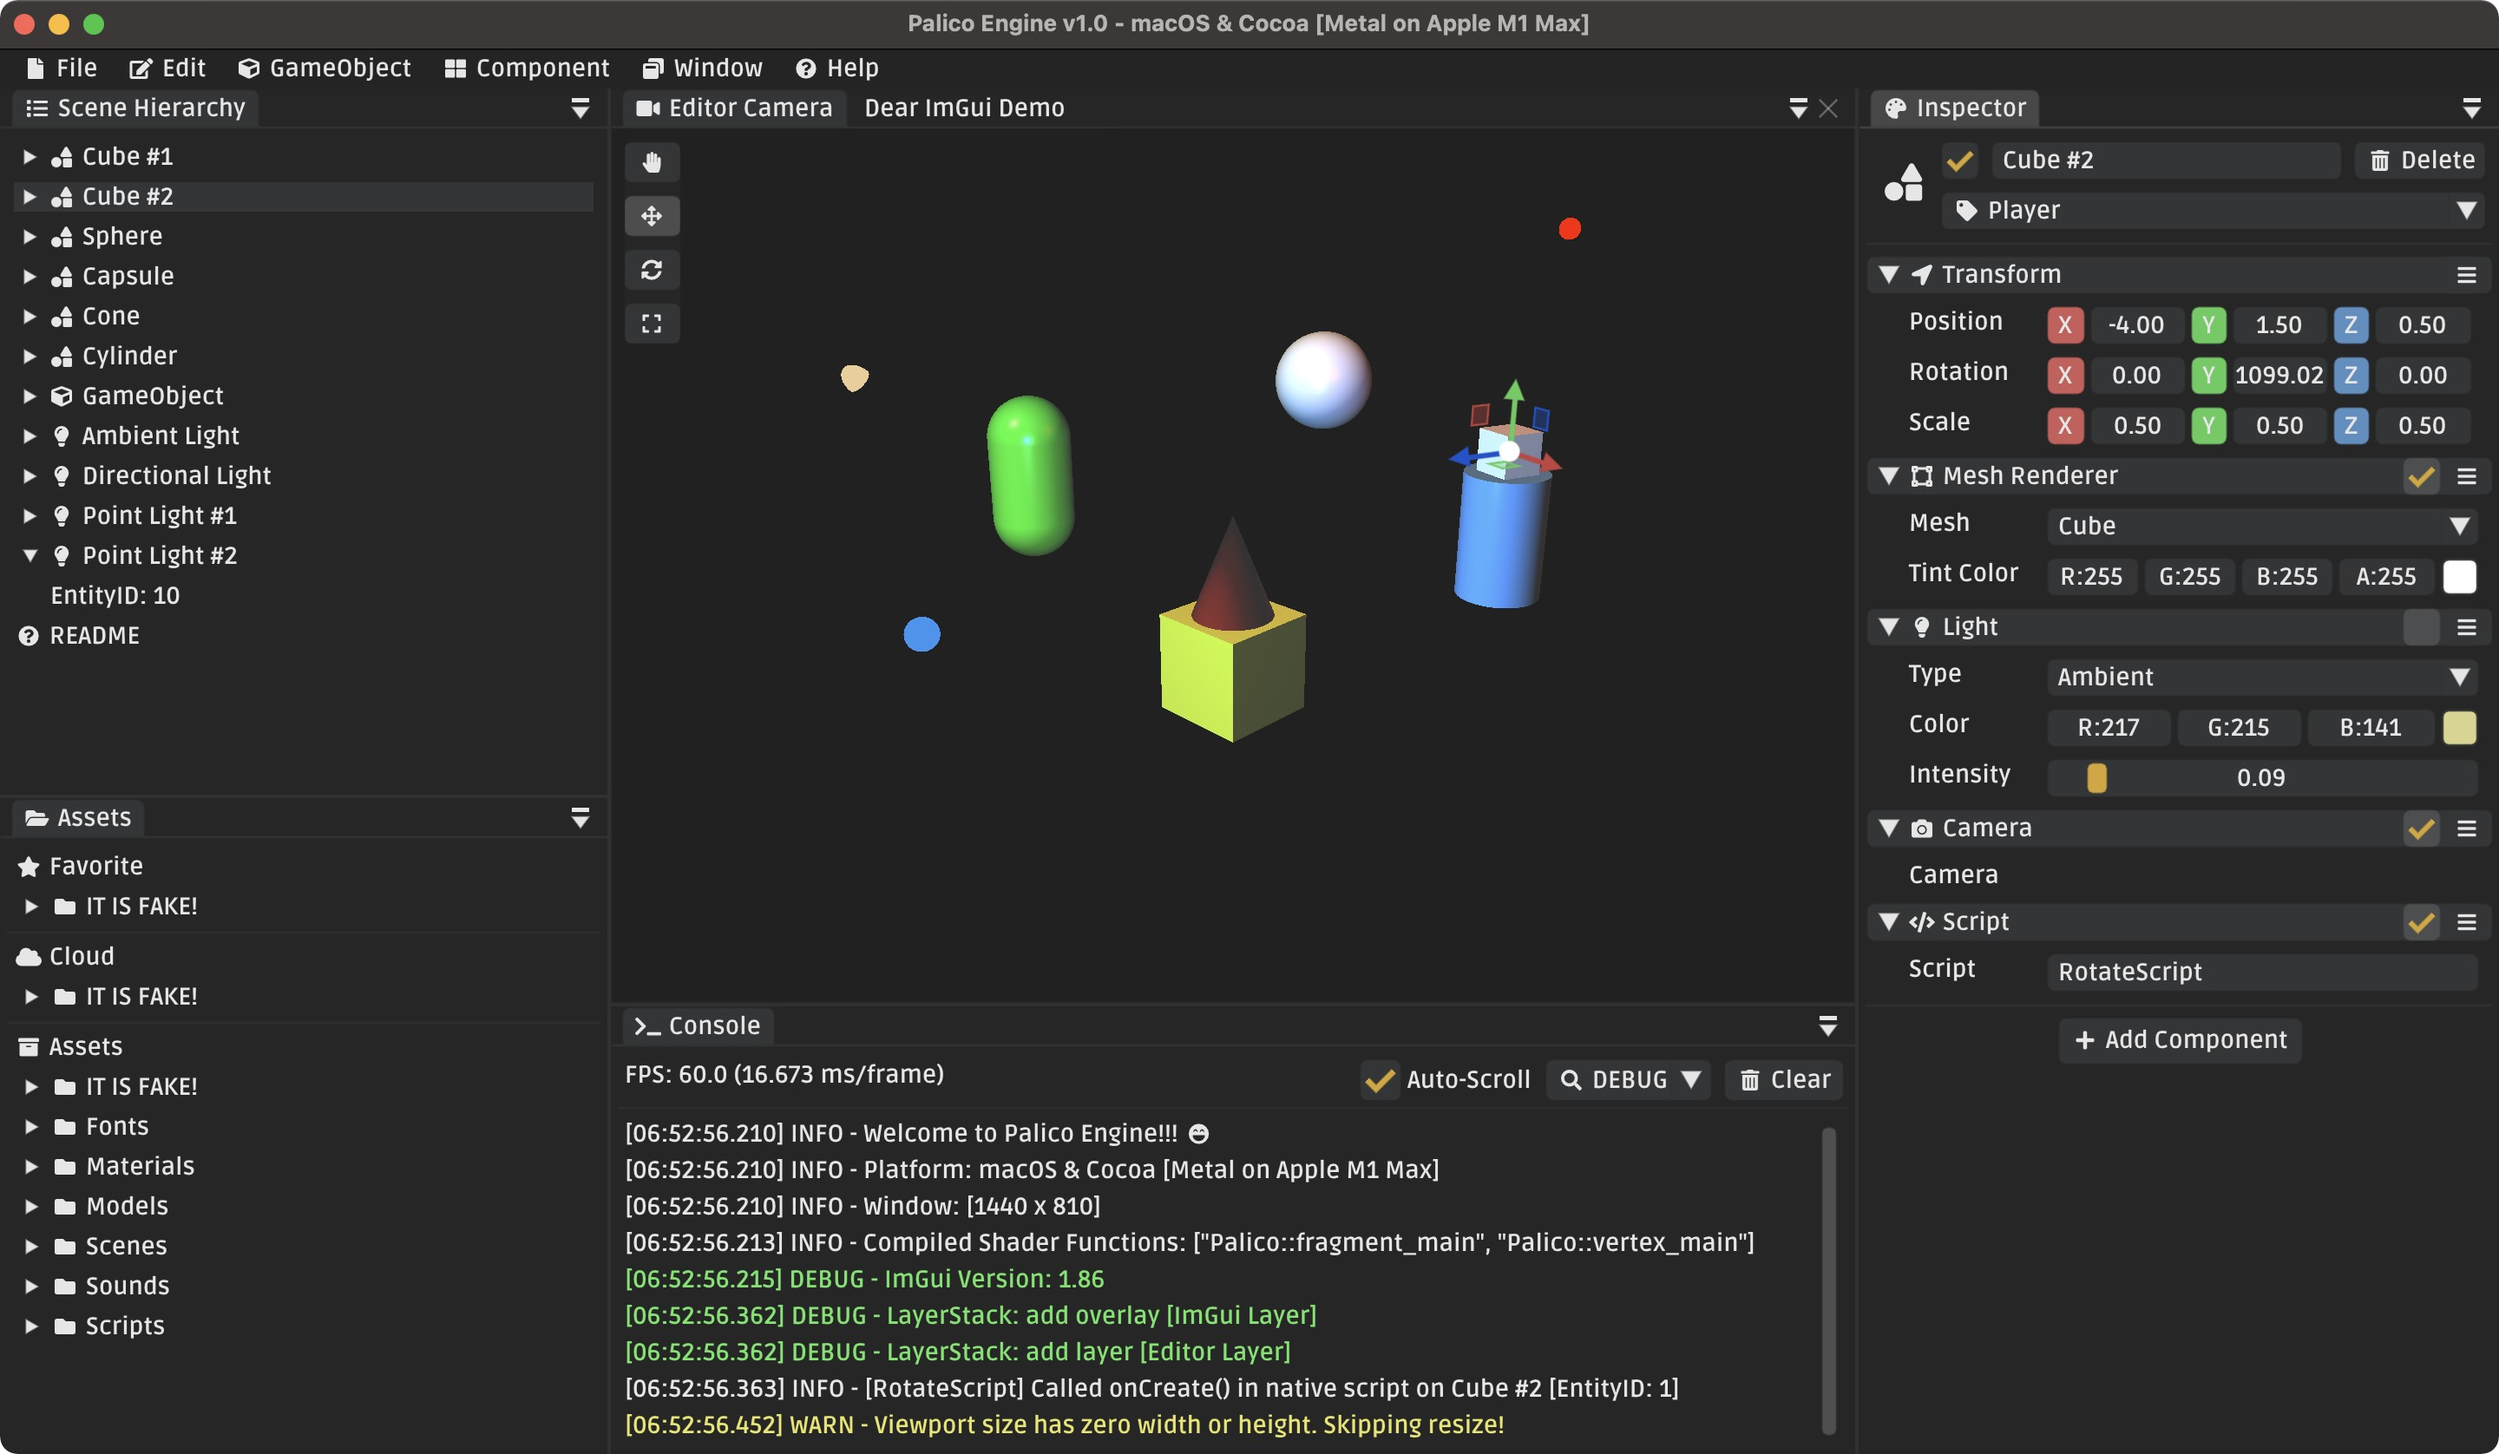
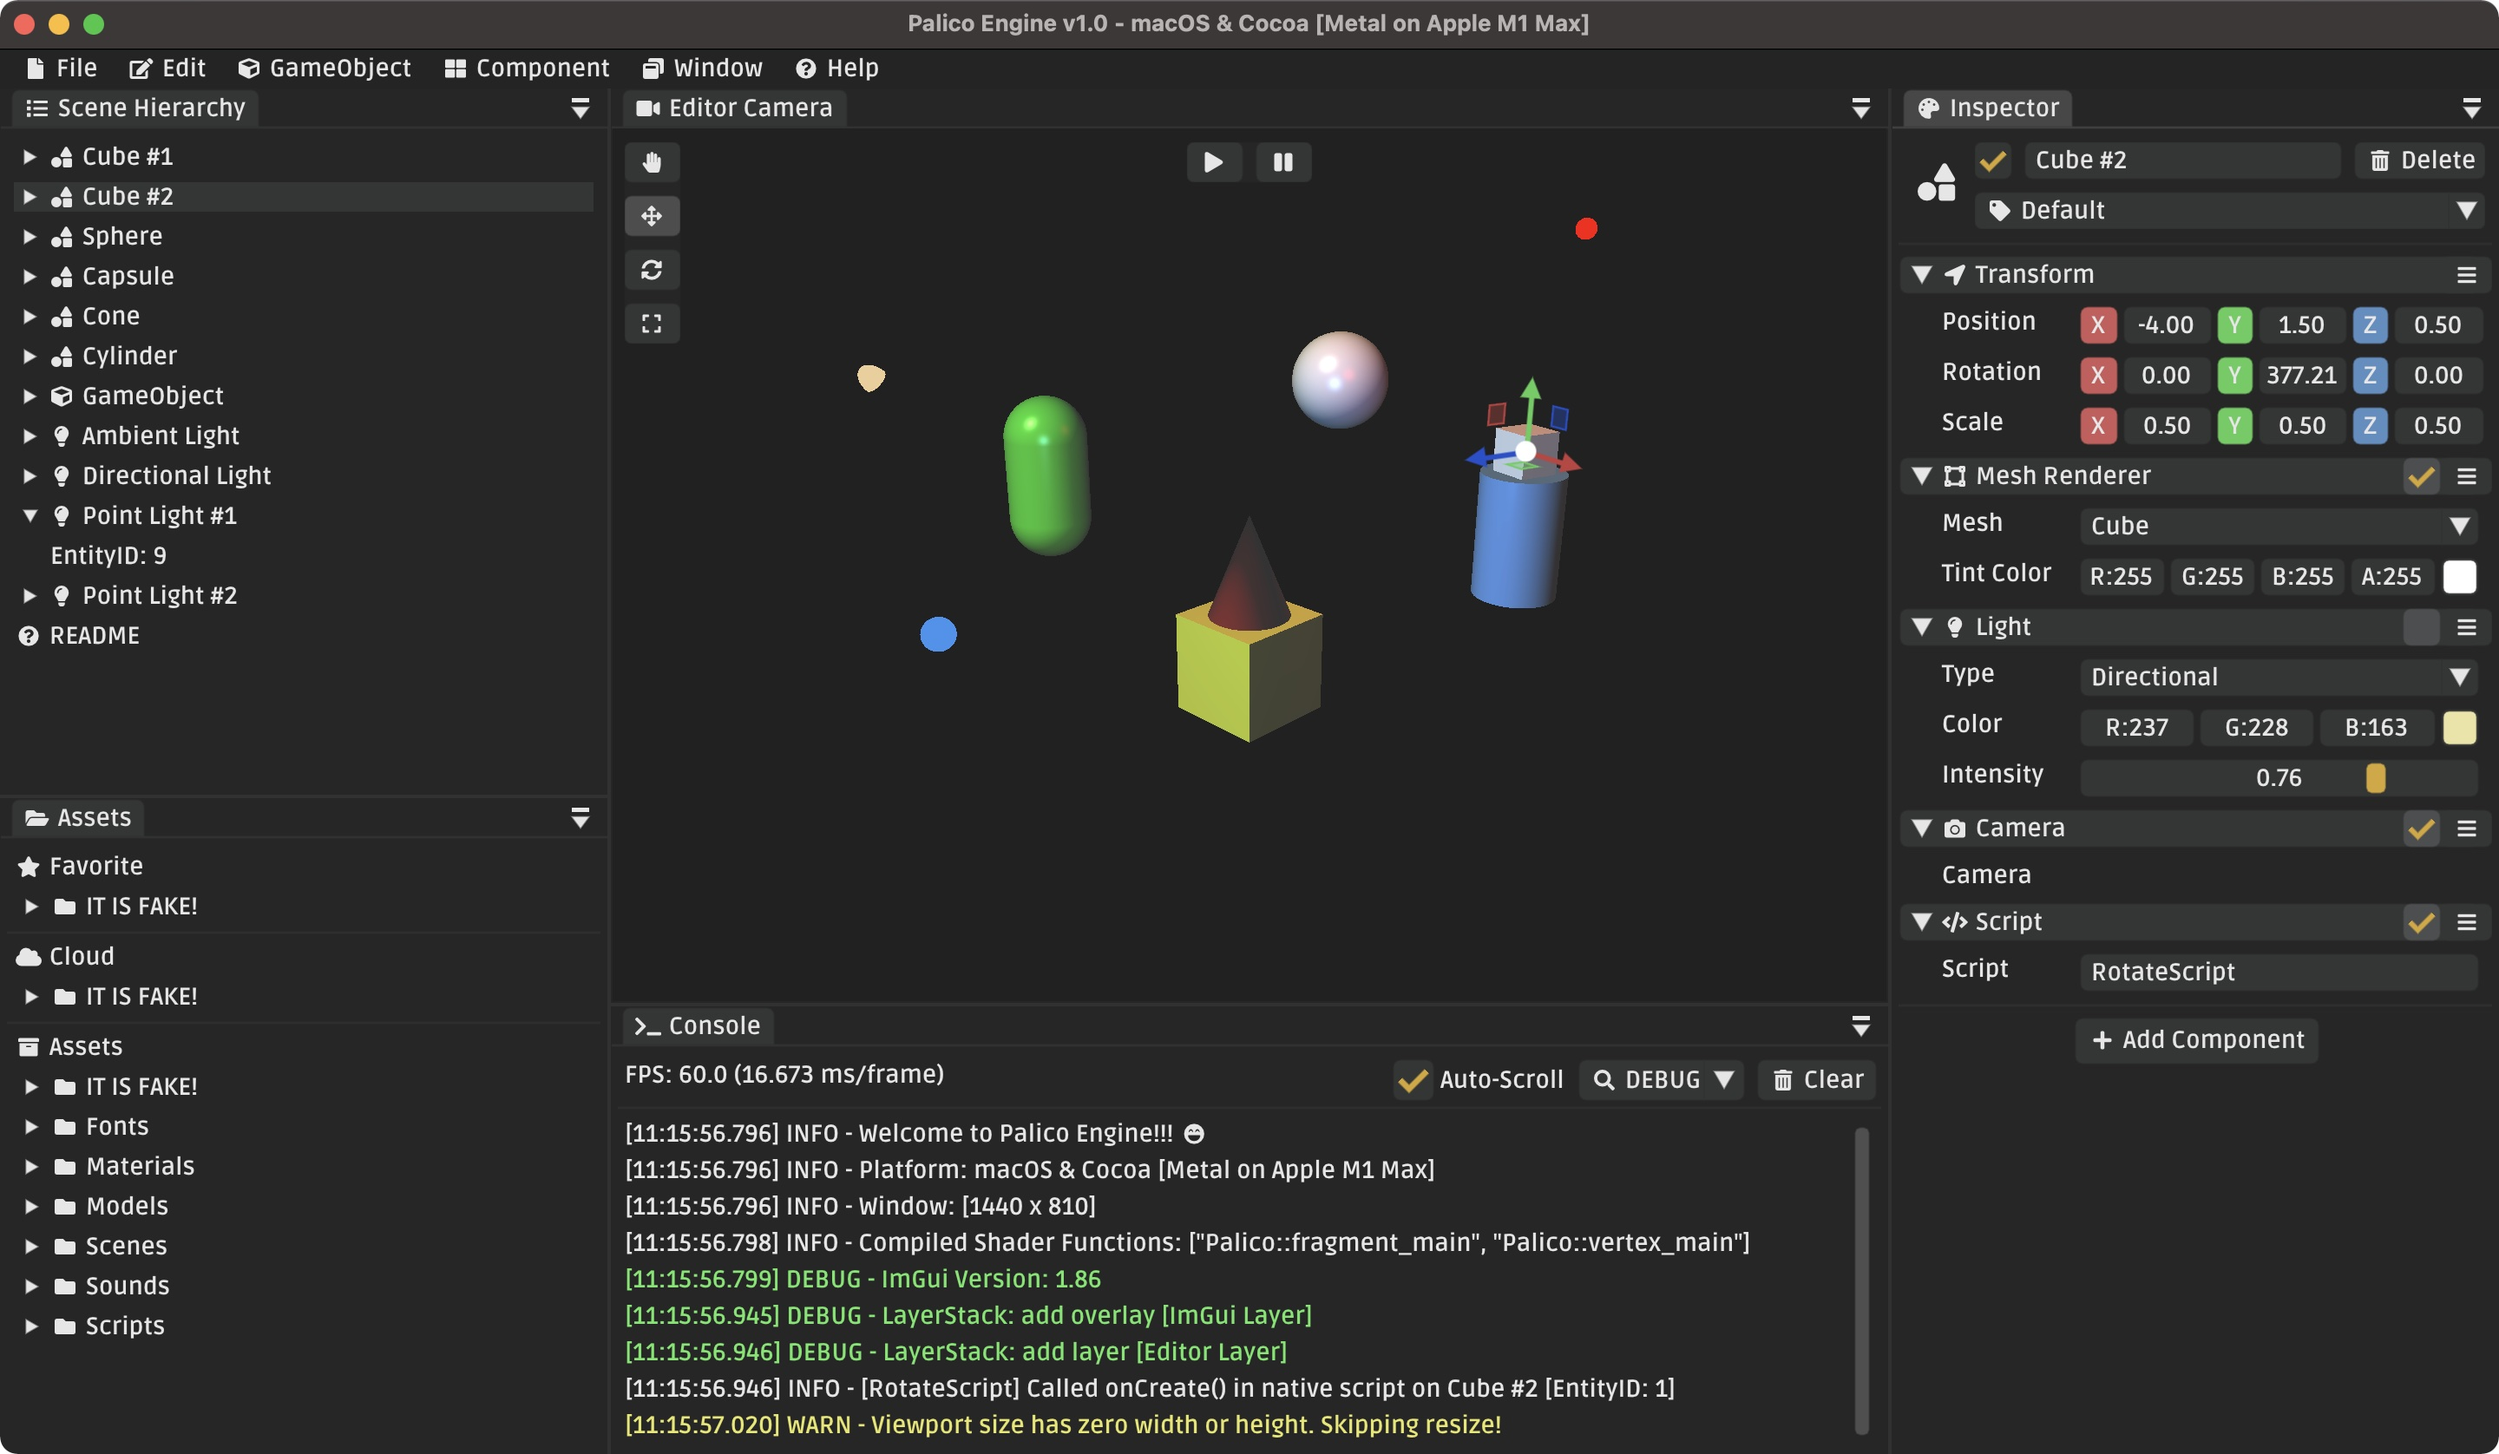
Add play/pause buttons

diff --git a/Sources/Editor/Panels/ViewportPanel.swift b/Sources/Editor/Panels/ViewportPanel.swift
@@ -29,6 +29,9 @@ class ViewportPanel: Panel {
     
     var gizmoType: ImGuizmoType = .translate
     
+    var isPlaying: Bool = false
+    var isPaused: Bool = false
+    
     func onAttach() {
         editorCamera = EditorCamera(fov: 45.0, aspect: 1.778)
     }
@@ -103,6 +106,9 @@ extension ViewportPanel{
             renderGizmo(gameObject!)
         }
         drawGizmoControl()
+        
+        // Play/Pause
+        drawPlayPauseControl()
         
         ImGuiEnd()
         ImGuiPopStyleVar(1)
@@ -203,8 +209,6 @@ extension ViewportPanel{
         
         let paddingSize: Float = 8.0
         let ySpacing: Float = 8.0
-        // let xSpacing: Float = 6.0
-        
         
         ImGuiSetNextWindowPos(ImVec2(viewportPos.x + paddingSize, viewportPos.y + tabBarHeight + paddingSize), 0, ImVec2(0, 0))
         ImGuiSetNextWindowSize(ImVec2(buttonSize.x, buttonSize.y * 4 + ySpacing * 3), 0)
@@ -226,24 +230,106 @@ extension ViewportPanel{
     }
     
     private func drawGizmoTypeButton(_ icon: String, _ type: ImGuizmoType, _ buttonSize: ImVec2 = ImVec2(0, 0)) {
-        ImGuiPushID("GizmoTypeButton\(icon)");
-        if (gizmoType == type)  // enabled
-        {
-            ImGuiPushStyleColor(Im(ImGuiCol_Button), ImGuiTheme.hovered)
-            ImGuiPushStyleColor(Im(ImGuiCol_ButtonHovered), ImGuiTheme.hovered)
-            ImGuiPushStyleColor(Im(ImGuiCol_ButtonActive), ImGuiTheme.hovered)
+        ImGuiPushID("GizmoTypeButton\(icon)")
+        if (gizmoType == type) {  // enabled
+            ImGuiPushStyleColor(Im(ImGuiCol_Button), ImGuiTheme.enabled)
+            ImGuiPushStyleColor(Im(ImGuiCol_ButtonHovered), ImGuiTheme.enabled)
+            ImGuiPushStyleColor(Im(ImGuiCol_ButtonActive), ImGuiTheme.enabled)
             ImGuiButton(icon, buttonSize)
             if ImGuiIsItemClicked(Im(ImGuiMouseButton_Left)) { gizmoType = type }
             ImGuiPopStyleColor(3);
-        }
-        else {
-            ImGuiPushStyleColor(Im(ImGuiCol_Button), ImGuiTheme.normal)
-            ImGuiPushStyleColor(Im(ImGuiCol_ButtonHovered), ImGuiTheme.normal)
-            ImGuiPushStyleColor(Im(ImGuiCol_ButtonActive), ImGuiTheme.normal)
-            if ImGuiButton(icon, buttonSize) { gizmoType = type }
+        } else {
+            ImGuiPushStyleColor(Im(ImGuiCol_Button), ImGuiTheme.disabled)
+            ImGuiPushStyleColor(Im(ImGuiCol_ButtonHovered), ImGuiTheme.disabled)
+            ImGuiPushStyleColor(Im(ImGuiCol_ButtonActive), ImGuiTheme.disabled)
+            ImGuiButton(icon, buttonSize)
+            if ImGuiIsItemClicked(Im(ImGuiMouseButton_Left)) { gizmoType = type }
             ImGuiPopStyleColor(3)
         }
-        ImGuiPopID();
+        ImGuiPopID()
+    }
+    
+    private func drawPlayPauseControl() {
+        let windowFlags: ImGuiWindowFlags = Im(ImGuiWindowFlags_NoDecoration) | Im(ImGuiWindowFlags_NoDocking)
+        | Im(ImGuiWindowFlags_AlwaysAutoResize) | Im(ImGuiWindowFlags_NoSavedSettings)
+        | Im(ImGuiWindowFlags_NoFocusOnAppearing) | Im(ImGuiWindowFlags_NoNav)
+        
+        ImGuiPushStyleVar(Im(ImGuiStyleVar_WindowBorderSize), 0.0)
+        
+        var viewportPos: ImVec2 = ImVec2(0, 0)
+        ImGuiGetWindowPos(&viewportPos)
+        
+        let tabBarHeight: Float = 23
+        let buttonSize: ImVec2 = ImVec2(32, 23)
+        
+        var viewportWindowSize: ImVec2 = ImVec2(0, 0)
+        ImGuiGetWindowSize(&viewportWindowSize)
+        
+        let paddingSize: Float = 8.0
+        let xSpacing: Float = 8.0
+        
+        let controlWindowSize: ImVec2 = ImVec2(buttonSize.x * 2 + xSpacing, buttonSize.y)
+                                        
+        ImGuiSetNextWindowPos(ImVec2(viewportPos.x + viewportWindowSize.x / 2.0 - controlWindowSize.x / 2.0,
+                                     viewportPos.y + tabBarHeight + paddingSize),
+                              0, ImVec2(0, 0))
+        ImGuiSetNextWindowSize(controlWindowSize, 0)
+        
+        ImGuiBegin("PlayPauseControl", nil, windowFlags)
+        drawPlayButton(buttonSize)
+        ImGuiSameLine(0, xSpacing)
+        drawPauseButton(buttonSize)
+        
+        ImGuiPopStyleVar(1)
+        ImGuiEnd()  // GizmoControl
+    }
+    
+    private func drawPlayButton(_ buttonSize: ImVec2 = ImVec2(0, 0)) {
+        ImGuiPushID("PlayButton")
+        if isPlaying {
+            ImGuiPushStyleColor(Im(ImGuiCol_Button), ImGuiTheme.enabled)
+            ImGuiPushStyleColor(Im(ImGuiCol_ButtonHovered), ImGuiTheme.enabled)
+            ImGuiPushStyleColor(Im(ImGuiCol_ButtonActive), ImGuiTheme.enabled)
+            ImGuiButton("\(FAIcon.stop)", buttonSize)
+            if ImGuiIsItemClicked(Im(ImGuiMouseButton_Left)) {
+                isPlaying = false
+            }
+            ImGuiPopStyleColor(3);
+        } else {
+            ImGuiPushStyleColor(Im(ImGuiCol_Button), ImGuiTheme.disabled)
+            ImGuiPushStyleColor(Im(ImGuiCol_ButtonHovered), ImGuiTheme.disabled)
+            ImGuiPushStyleColor(Im(ImGuiCol_ButtonActive), ImGuiTheme.disabled)
+            ImGuiButton("\(FAIcon.play)", buttonSize)
+            if ImGuiIsItemClicked(Im(ImGuiMouseButton_Left)) {
+                isPlaying = true
+            }
+            ImGuiPopStyleColor(3)
+        }
+        ImGuiPopID()
+    }
+    
+    private func drawPauseButton(_ buttonSize: ImVec2 = ImVec2(0, 0)) {
+        ImGuiPushID("PauseButton")
+        if isPaused {
+            ImGuiPushStyleColor(Im(ImGuiCol_Button), ImGuiTheme.enabled)
+            ImGuiPushStyleColor(Im(ImGuiCol_ButtonHovered), ImGuiTheme.enabled)
+            ImGuiPushStyleColor(Im(ImGuiCol_ButtonActive), ImGuiTheme.enabled)
+            ImGuiButton("\(FAIcon.pause)", buttonSize)
+            if ImGuiIsItemClicked(Im(ImGuiMouseButton_Left)) {
+                isPaused = false
+            }
+            ImGuiPopStyleColor(3);
+        } else {
+            ImGuiPushStyleColor(Im(ImGuiCol_Button), ImGuiTheme.disabled)
+            ImGuiPushStyleColor(Im(ImGuiCol_ButtonHovered), ImGuiTheme.disabled)
+            ImGuiPushStyleColor(Im(ImGuiCol_ButtonActive), ImGuiTheme.disabled)
+            ImGuiButton("\(FAIcon.pause)", buttonSize)
+            if ImGuiIsItemClicked(Im(ImGuiMouseButton_Left)) {
+                isPaused = true
+            }
+            ImGuiPopStyleColor(3)
+        }
+        ImGuiPopID()
     }
     
     private func updateViewportSize() {

diff --git a/Sources/Editor/EditorLayer.swift b/Sources/Editor/EditorLayer.swift
@@ -115,14 +115,15 @@ class EditorLayer: Layer {
             
         }
         
-        // onUpdateEditor
-        scenePanel.onUpdateEditor(deltaTime: ts)
         viewportPanel.onUpdate(deltaTime: ts)
         
-        // Render Scene (Editor)
-        scenePanel.scene.onRenderEditor(deltaTime: ts, editorCamera: viewportPanel.editorCamera)
-        
-        // Event
+        if viewportPanel.isPlaying {
+            scenePanel.onUpdate(deltaTime: ts)
+            scenePanel.scene.onRenderRuntime(deltaTime: ts)  // render
+        } else {
+            scenePanel.onUpdateEditor(deltaTime: ts)
+            scenePanel.scene.onRenderEditor(deltaTime: ts, editorCamera: viewportPanel.editorCamera)  // render
+        }
     }
     
     // Called after onUpdate()

diff --git a/Sources/Palico/ImGui/ImGuiTheme.swift b/Sources/Palico/ImGui/ImGuiTheme.swift
@@ -35,6 +35,9 @@ public struct ImGuiTheme {
     public static var hovered            = ImVec4(0.30, 0.30, 0.30, 1.0)
     public static var active             = ImVec4(0.15, 0.15, 0.15, 1.0)
     
+    public static var enabled            = ImVec4(0.30, 0.30, 0.30, 1.0)
+    public static var disabled           = ImVec4(0.20, 0.21, 0.21, 1.0)
+    
     public static var tabNormal          = ImVec4(0.15, 0.15, 0.15, 1.0)
     public static var tabHovered         = ImVec4(0.38, 0.38, 0.38, 1.0)
     public static var tabActive          = ImVec4(0.28, 0.28, 0.28, 1.0)

diff --git a/Sources/Editor/Scripts/RotateScript.swift b/Sources/Editor/Scripts/RotateScript.swift
@@ -30,7 +30,5 @@ class RotateScript: NativeScript {
     override func onUpdateEditor(deltaTime ts: Timestep) {
         let transform = getComponent(TransformComponent.self)
         transform.rotation.y += rotateSpeed * Time.deltaTime  // or you can use ts
-//        transform.rotation.y = y.truncatingRemainder(dividingBy: 360.0)
-        
     }
 }

diff --git a/README.md b/README.md
@@ -9,7 +9,7 @@
 Implement a game engine on macOS using Metal API. Still in development. Currently I am working on a more capable entity-component-system [MothECS](https://github.com/forkercat/MothECS) :)
 
 <p align="left">
-	<img src="gallery/screenshot.jpg" width="90%" alt="Palico Engine Screenshot"/>
+	<img src="gallery/screenshot.jpg" width="100%" alt="Palico Engine Screenshot"/>
 </p>
 
 [Palico](https://monsterhunterworld.wiki.fextralife.com/Palicoes) - It is a cat-like combat companion in Monster Hunter!
